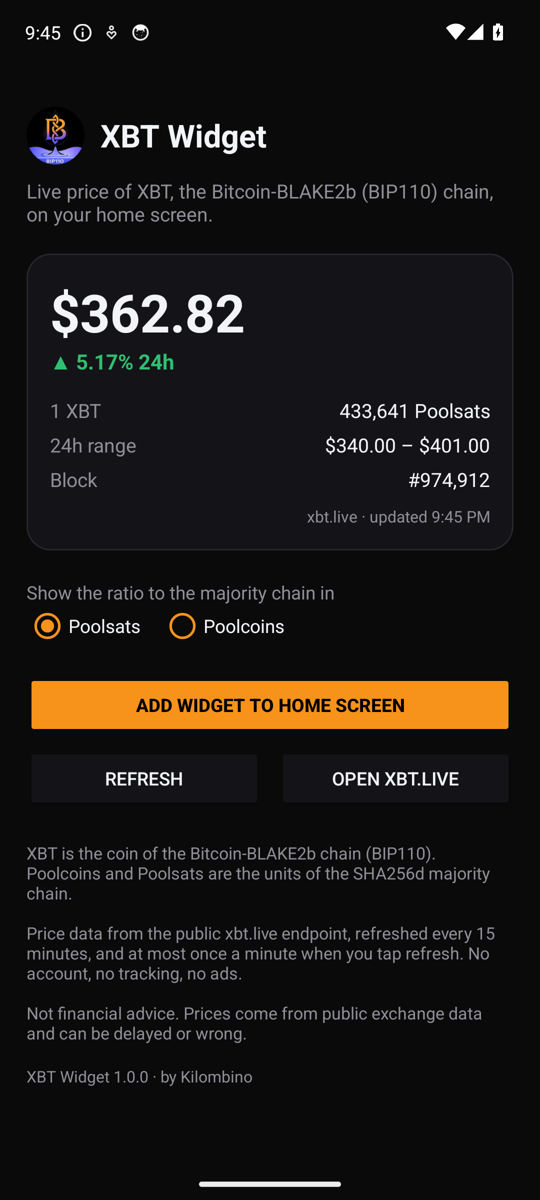
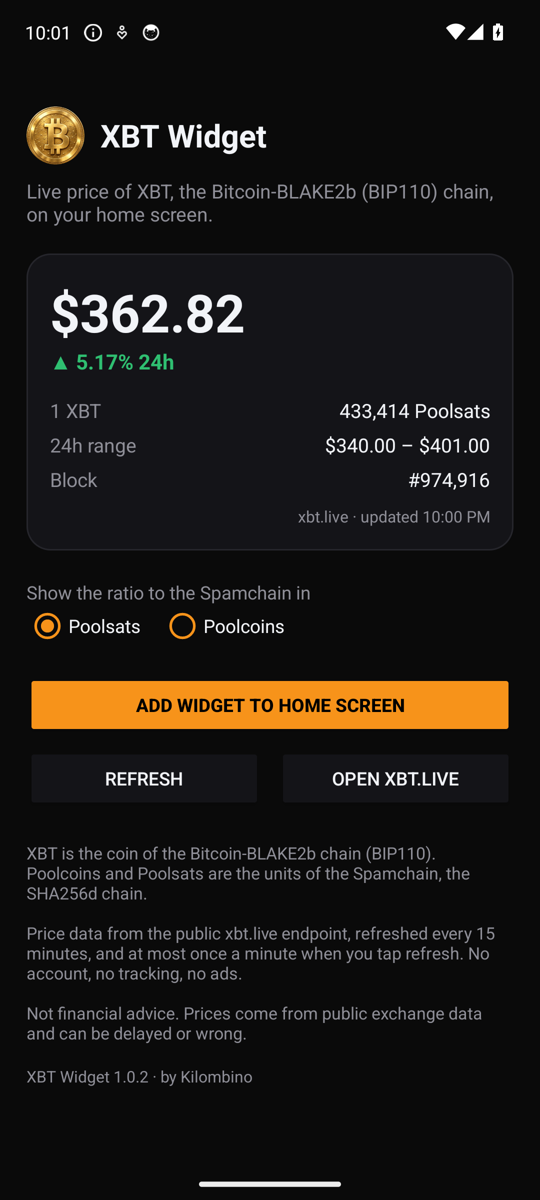
1.0.2: icono de moneda de oro y Spamchain en lugar de cadena mayoritaria

diff --git a/app/src/main/java/com/kilombino/xbtwidget/XbtRepository.kt b/app/src/main/java/com/kilombino/xbtwidget/XbtRepository.kt
@@ -11,7 +11,7 @@ data class XbtQuote(
     val changePct: Double?,
     val high24: Double?,
     val low24: Double?,
-    /** Cuántos Poolcoins (cadena SHA256d mayoritaria) vale 1 XBT. */
+    /** Cuántos Poolcoins (Spamchain, la cadena SHA256d) vale 1 XBT. */
     val xbtPerPoolcoin: Double?,
     val height: Long?,
     val updatedMs: Long,
@@ -92,5 +92,5 @@ object XbtRepository {
 
 /** Evita depender de BuildConfig (desactivado por defecto en AGP 8). */
 object BuildConfigInfo {
-    const val VERSION = "1.0.1"
+    const val VERSION = "1.0.2"
 }

diff --git a/app/src/main/java/com/kilombino/xbtwidget/Format.kt b/app/src/main/java/com/kilombino/xbtwidget/Format.kt
@@ -23,7 +23,7 @@ object Format {
 
     fun block(h: Long?): String = if (h == null) "–" else "#" + String.format(loc(), "%,d", h)
 
-    /** Relación con la cadena mayoritaria, en Poolsats o en Poolcoins. */
+    /** Relación con la Spamchain, en Poolsats o en Poolcoins. */
     fun ratio(ctx: Context, q: XbtQuote): String {
         val r = q.xbtPerPoolcoin ?: return "–"
         return if (XbtRepository.unit(ctx) == XbtRepository.UNIT_POOLCOINS) {

diff --git a/CHANGELOG.md b/CHANGELOG.md
@@ -1,3 +1,9 @@
+## 1.0.2
+
+### Changed
+- New app icon: a round gold Bitcoin coin, also used inside the widget and the app.
+- The SHA256d chain is now called the Spamchain everywhere in the app.
+
 ## 1.0.1
 
 ### Changed
@@ -9,7 +15,7 @@
 
 ### Added
 - Home screen widget with the live XBT (Bitcoin-BLAKE2b / BIP110) price in USD and its 24h change.
-- Full size adds the ratio to the majority chain (in Poolsats or Poolcoins), the 24h range, the block height and the time of the last update.
+- Full size adds the ratio to the Spamchain (in Poolsats or Poolcoins), the 24h range, the block height and the time of the last update.
 - Compact layout for small widgets, chosen automatically when the widget is resized.
 - Refreshes every 15 minutes in the background, plus a refresh button that respects xbt.live's one-request-per-minute limit.
 - Old data is flagged when the phone has been offline for a while, instead of showing a blank widget.

diff --git a/README.md b/README.md
@@ -8,7 +8,7 @@ Android home screen widget with the live price of **XBT**, the coin of the Bitco
 </p>
 
 - XBT price in USD and 24h change
-- Ratio to the SHA256d majority chain, in **Poolsats** or **Poolcoins**
+- Ratio to the Spamchain (the SHA256d chain), in **Poolsats** or **Poolcoins**
 - 24h range, block height and time of the last update
 - Resizable: a compact layout is used when the widget is small
 - Background refresh every 15 minutes; refresh button limited to once a minute
